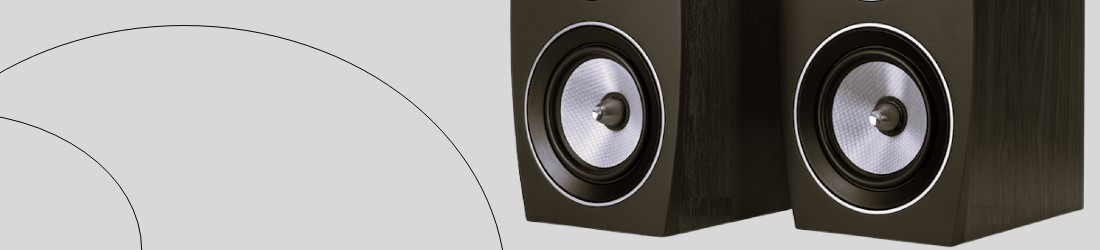
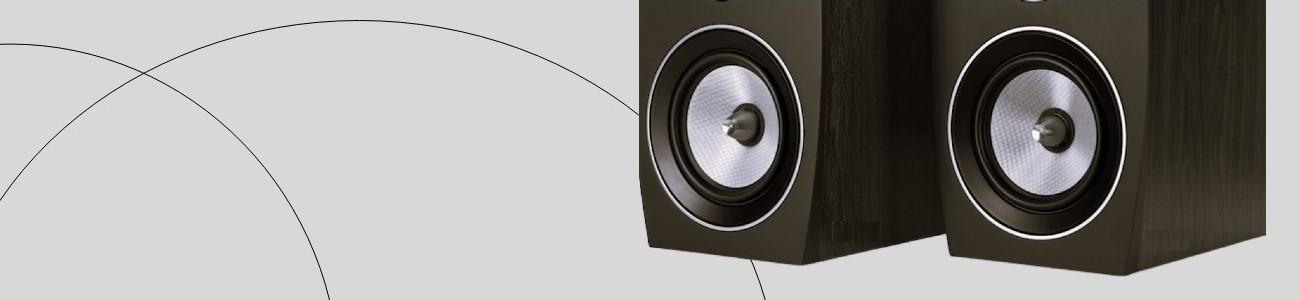
Add files via upload

diff --git a/css/styles.css b/css/styles.css
@@ -5,7 +5,8 @@ body{
 /* title */
 #title{
   background-color: #1A1A1B;
-  padding: 0 15% 1% 15%;
+  padding: 0 10% 1% 10%;
+  position: relative;
 }
 
 .title{
@@ -29,12 +30,13 @@ body{
 }
 
 .title-text{
-  padding-top: 6rem;
+  padding-top: 9rem;
 }
 
 .title-image{
   width: 100%;
   padding-top: 1rem;
+  margin-bottom: 1%;
 }
 
 .row h3{
@@ -66,6 +68,8 @@ body{
 @media (max-width: 1028px) {
   #title{
     text-align: center;
+    background-color: #1A1A1B;
+    padding: 0 10% 1% 10%;
   }
 
   .title-heading{
@@ -84,7 +88,7 @@ body{
 /* products */
 #products{
   text-align: center;
-  padding: 8% 15%;
+  padding: 8% 10%;
   align-items: center;
 }
 
@@ -148,7 +152,7 @@ span{
 
 /* zx 9 speaker  */
 #zx9-speaker{
-  padding: 0 15% 3% 15%;
+  padding: 0 10% 3% 10%;
 }
 
 .third-container{
@@ -171,7 +175,7 @@ span{
 
 .speaker-heading{
   margin-left: 15%;
-  margin-top: 24%;
+  margin-top: 26%;
   line-height: 0.5;
   font-size: 3.2rem;
   color: #fff;
@@ -206,7 +210,7 @@ span{
 @media (max-width: 1028px) {
   #zx9-speaker{
     text-align: center;
-    padding: 0 15% 3% 15%;
+    padding: 0 10% 3% 10%;
   }
     .speaker-image{
       object-fit: cover;
@@ -254,7 +258,7 @@ span{
 }
 
 #zx7-speaker{
-  padding: 0 15% 3% 15%;
+  padding: 0 10% 3% 10%;
 }
 
 .fourth-container{
@@ -304,7 +308,7 @@ span{
 
 
 #yx1-earphones{
-  padding: 0 15% 3% 15%;
+  padding: 0 10% 3% 10%;
 }
 
 .fifth-container{
